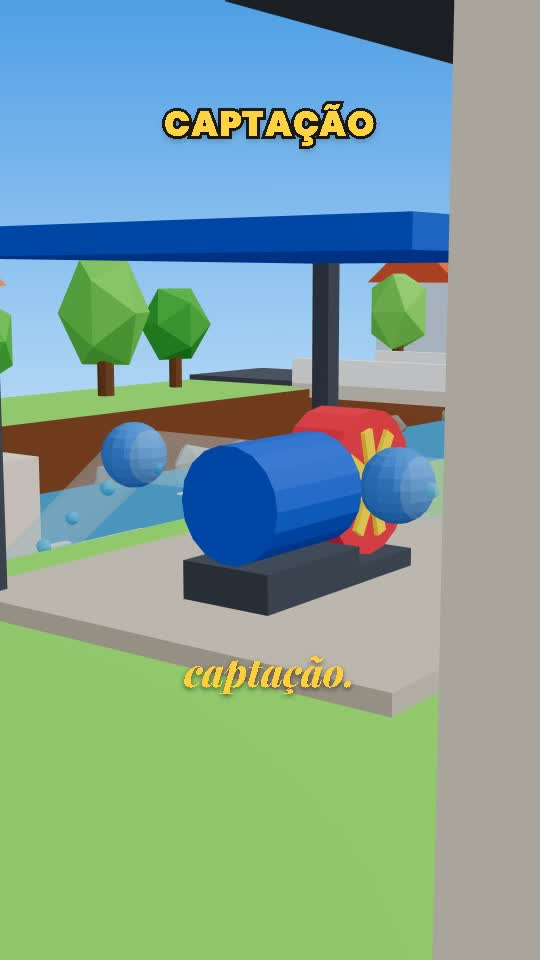
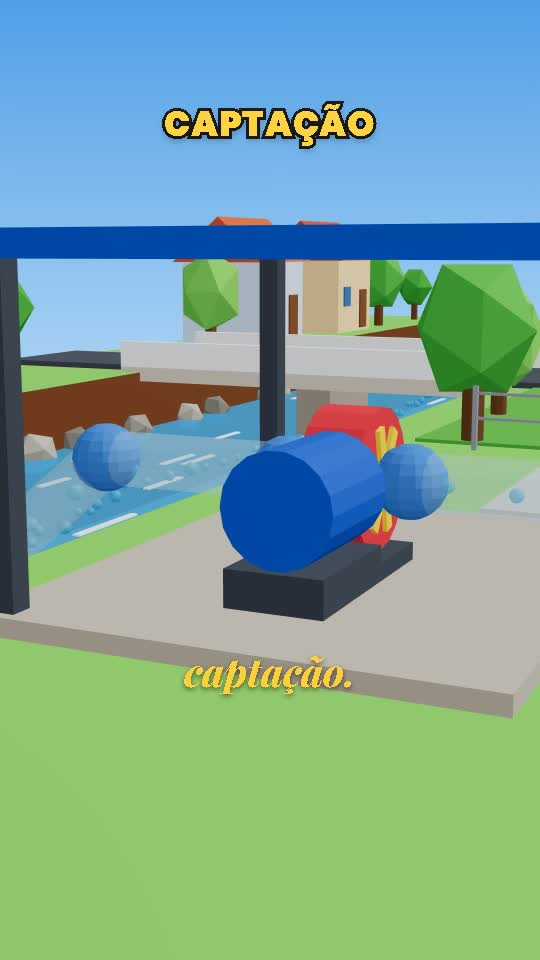
Painel: ajustes e arquivos de projeto (sincronização)

diff --git a/src/projetos/gota-1/storyboard.tsx b/src/projetos/gota-1/storyboard.tsx
@@ -81,8 +81,8 @@ export const CAMERA: ChaveCam[] = [
 	[42.6, [10, 8, 3], [-8, -1, -0.5], 50, 'g'],
 	[44.2, [9, 7, 3], [-7, -1, -0.5], 50, 'g'],
 	// captação: de frente-esquerda, por baixo da cobertura
-	[45.6, [-26, 3.6, -12.5], [-17, 1.0, -20.0], 44],
-	[48.0, [-25, 2.8, -13.5], [-17, 1.2, -19.5], 42],
+	[45.6, [-27, 3.8, -14.5], [-17, 1.0, -20.0], 44],
+	[48.0, [-26, 3.0, -15.5], [-17, 1.2, -19.5], 42],
 	// filtro de areia e cloração
 	[49.4, [-18.3, 3.4, 1.4], [-18.3, 1.9, -10.0], 42],
 	[51.0, [-17.8, 3.2, 0.0], [-18.0, 1.6, -10.0], 42],
